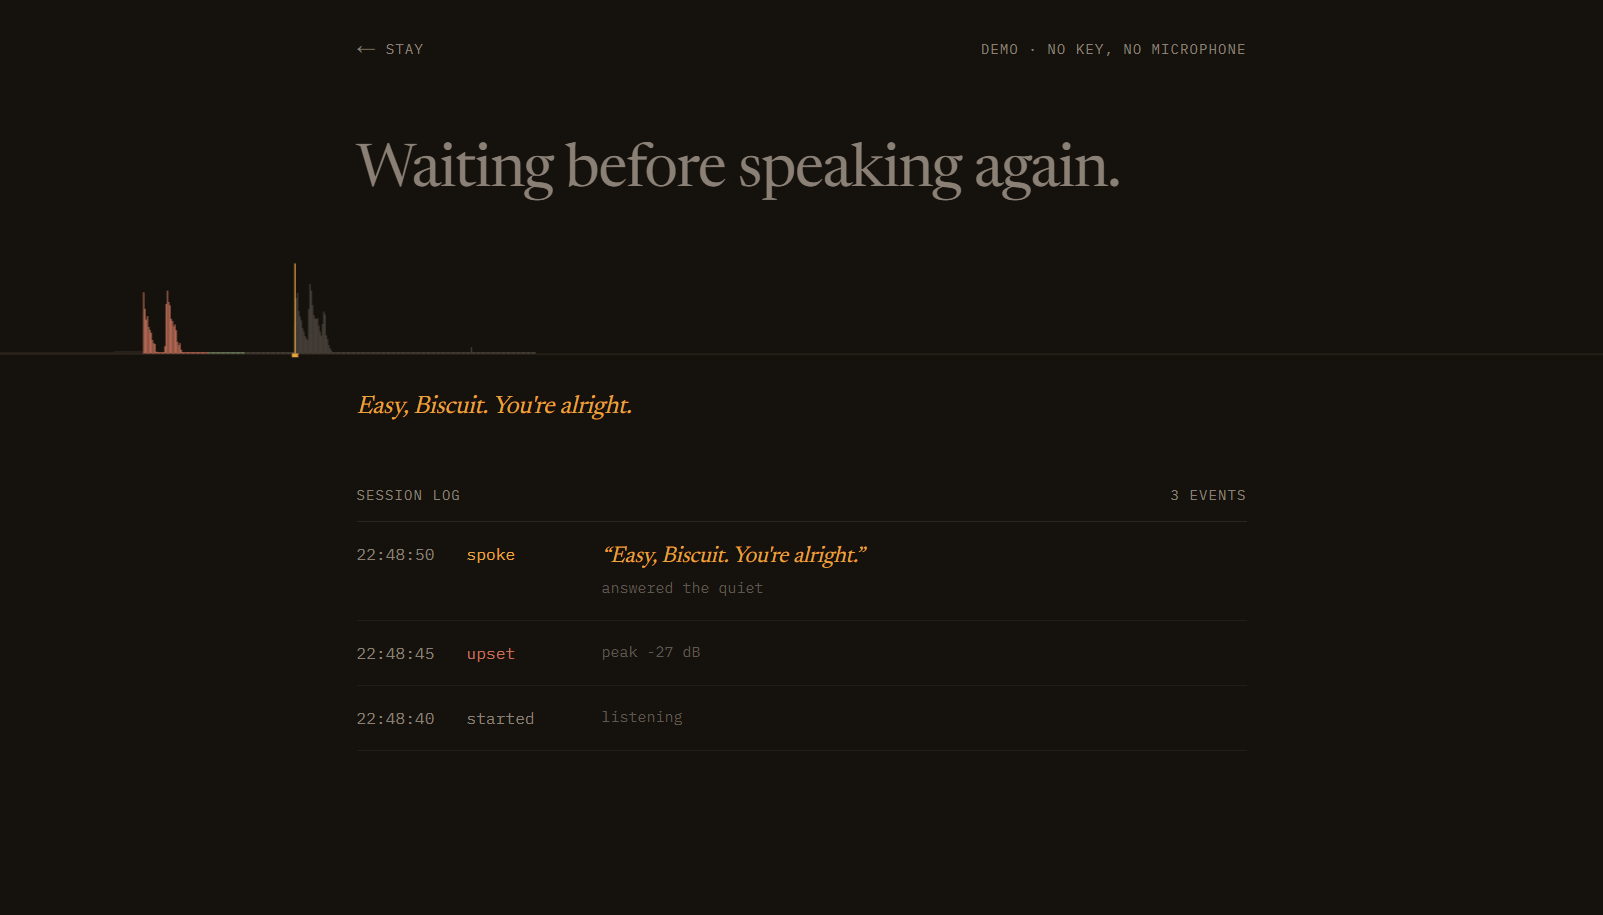
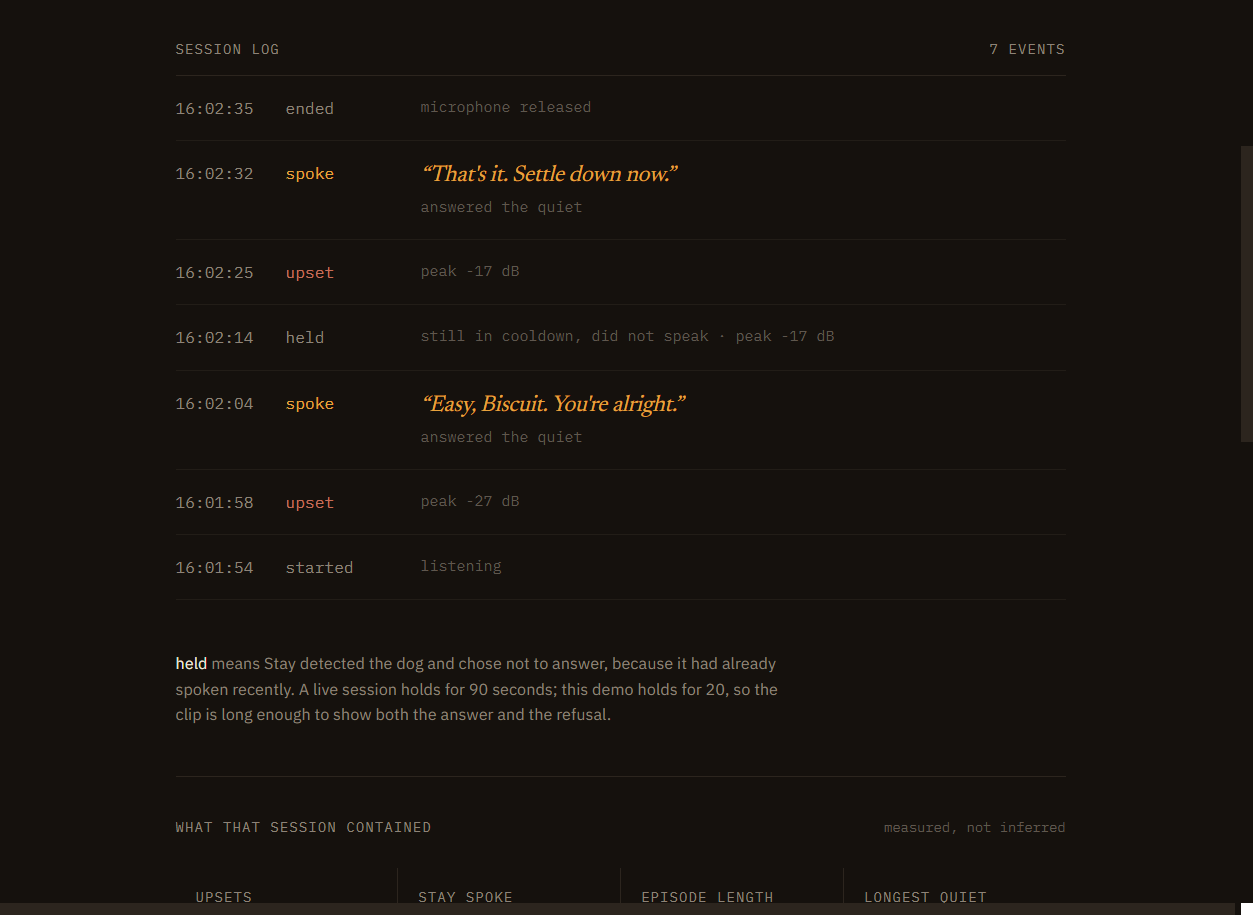
Document the session report and refresh both demo screenshots
The demo screenshot still showed a single response and one hold, which
contradicted the copy beside it after the cooldown change.

Also caps the episode bar width — with only two episodes, flex-1 stretched
each one into a slab that read as a block of colour rather than a
measurement.

diff --git a/components/SessionReport.tsx b/components/SessionReport.tsx
@@ -187,9 +187,15 @@ function EpisodeBars({ seconds }: { seconds: number[] }) {
   return (
     <div className="flex flex-col gap-3">
       <span className="label">Each upset, in order</span>
-      <div className="flex items-end gap-2" role="img" aria-label={`Episode lengths in seconds, in order: ${seconds.join(", ")}`}>
+      {/* Capped width: with only two episodes, flex-1 alone stretches each bar
+          into a slab that reads as a block of colour rather than a measurement. */}
+      <div
+        className="flex items-end gap-2"
+        role="img"
+        aria-label={`Episode lengths in seconds, in order: ${seconds.join(", ")}`}
+      >
         {seconds.map((s, i) => (
-          <div key={i} className="flex flex-1 flex-col items-center gap-2">
+          <div key={i} className="flex max-w-[72px] flex-1 flex-col items-center gap-2">
             <div
               className="w-full bg-clay/70"
               style={{ height: `${Math.max(4, (s / max) * 64)}px` }}

diff --git a/README.md b/README.md
@@ -302,6 +302,67 @@ that starts instantly.
 
 ---
 
+## Reading the session back — and the number Gemini is never shown
+
+A session leaves behind something no camera produces: a behavioural record of a dog that
+was alone. When each upset started, how long it ran, how loud it peaked, how the episodes
+compared. That is the thing an owner actually wants, and as a list of timestamps it is
+unreadable.
+
+![Gemini's closing summary of a session](docs/screenshots/04-session-report.png)
+
+**The interesting part is what the model is not given.**
+
+The first version handed Gemini the figures with a prompt telling it not to recite them.
+It recited them anyway — every time, dBFS units and all:
+
+> Biscuit got upset 3 times during the 42.5 minute session. The upsets lasted 14.2, 9.6
+> and 4.8 seconds, with peak volumes of -19 dBFS, -23 dBFS and -28 dBFS.
+
+That is the table read aloud. Instructing a model to ignore what is in front of it is not
+a design, so the numbers were removed instead. `describeSession()` turns the timestamps
+into statements that are already true, and those sentences are the entire prompt input:
+
+```
+The session lasted about 45 minutes.
+The dog got upset three times.
+Each upset was shorter than the one before it.
+The upsets also got quieter as the session went on.
+There was one long stretch of about 20 minutes with nothing at all.
+Stay answered every upset.
+Every answer came after the noise had already stopped, never during it.
+```
+
+Which becomes:
+
+> **Three upsets, getting shorter and quieter**
+>
+> Biscuit got upset three times during the session, which lasted about 45 minutes. Each
+> upset became shorter and quieter as the session went on, and there was a long, quiet
+> stretch in the middle. Stay answered every upset, always after the noise had already
+> stopped.
+>
+> *Worth knowing —* The upsets did get shorter and quieter, but three of them is a thin
+> basis for believing that means very much yet.
+
+**A model cannot misreport a number it was never shown.** Whether a direction may be
+described at all is decided on the server from the episode count — under three upsets and
+the prompt is told outright that no trend exists. That is a rule in code, not a line in a
+prompt that a helpful model can talk itself past. The page shows the exact input under a
+disclosure, so this is checkable rather than claimed.
+
+It also reports sessions that got *worse*, in the same plain language. There would be no
+point otherwise.
+
+**One bug this caught in my own code:** loudness direction was first computed as a ratio
+of dBFS values. Decibels are logarithmic and negative, so `-28 / -19` is not a ratio of
+anything — and a dog that was getting quieter was reported as getting louder. It is a
+difference test with a 4 dB floor now.
+
+This runs on the shared Gemini key, so **demo mode gets it too, with no key of any kind.**
+
+---
+
 ## Running on a free ElevenLabs account
 
 I had no budget, so the first thing I did was ask a free key what it could actually do.
@@ -373,14 +434,18 @@ app/
 ├── privacy/              a straight answer about the microphone
 └── api/
     ├── el/               capabilities · voice · tts · clone
-    └── gemini/           lines · score · vocal
+    └── gemini/           lines · score · vocal · session
+
+components/
+└── SessionReport.tsx     the closing summary, and its exact model input
 
 lib/
 ├── audio/
 │   ├── graph.ts          live mic graph + wake lock
 │   ├── offline.ts        same detector, recorded audio
 │   └── voice.ts          pre-render queue + offline bank
-├── elevenlabs.ts         server-side, typed errors
+├── sessionStats.ts       timestamps → numbers → plain statements
+├── elevenlabs.ts         server-side, typed errors, per-mood delivery
 ├── gemini.ts             prompts + server-side line validation
 └── types.ts              every detector constant, with the reasoning
 
